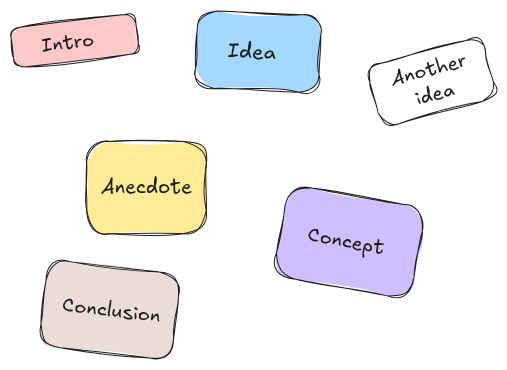
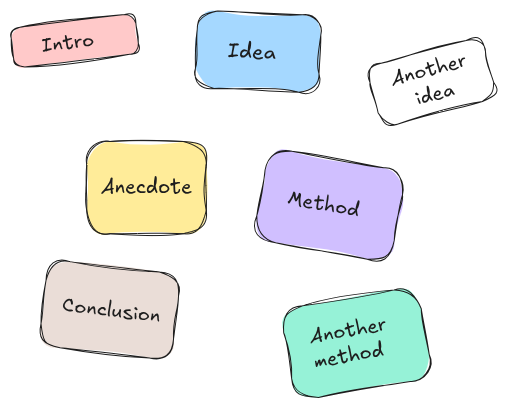
Expand on how to trace different routes over the same map

diff --git a/docs/storybuilding/README.md b/docs/storybuilding/README.md
@@ -36,7 +36,7 @@ Just write them down.
 My advice is to do it like in the figure below, in small squares, with no pre-defined order.
 Just drop them around as if they were LEGO bricks.
 
-![Auxiliary](./img/01-bricks.png)
+![Bricks](./img/01-bricks.png)
 
 ## Structuring your thoughts: the building blocks
 
@@ -49,9 +49,12 @@ Take a moment to look at your building blocks.
 Very likely, you'll notice some of them are related.
 This relationship can be logical, narrative, chronological, ...
 
-Draw a line between them if that's the case (I suggest using solid lines for solid links, and dashed lines for slightly more subtle links).
+Draw a line between them if that's the case.
+I suggest using **solid lines for strong relatedness**, and **dashed lines for less clear relatedness**.
 We are starting to have **some** structure!
 We are slowly creating order out of chaos!
+
+![Links](./img/02-links.png)
 
 At this stage, you might realize some building blocks are missing.
 When that's the case, just add them.
@@ -61,9 +64,29 @@ You might even judge some of the blocks to be unnecessary.
 Drop those without hesitation!
 Nothing creates more order out of chaos than reducing the amount of moving parts!
 
-FIGURE HERE
-
 ## Navigating your thoughts: the story map
+The ultimate goal would be to navigate your thoughts.
+Almost literally: you want to create a route from the beginning to the end.
+And the diagram above can be very useful.
+
+For instance, the diagram shows clearly what the core topics are.
+This allows for a drawing a first, straightforward route that covers just the basics.
+If your audience is already knowledgeable about the topic and your time is limited, this route is an excellent choice:
+
+![Direct](./img/03-direct.png)
+
+If your time is less limited, you can consider taking a detour and dropping an anecdote to make the experience more enjoyable:
+
+![Anecdote](./img/04-anecdote.png)
+
+Last but not least, if you have the possibility of expanding as much as you want, you might want to cover all the topics.
+In such a case, a reasonable route will look like:
+
+![Exhaustive](./img/05-exhaustive.png)
+
+In the figure below we summarize three possible routes we could envision for the same material:
+
+![All](./img/06-all.png)
 
 ## References
 - [Así nace una charla Naukas](https://naukas.com/2023/10/11/asi-nace-una-charla-naukas/)
